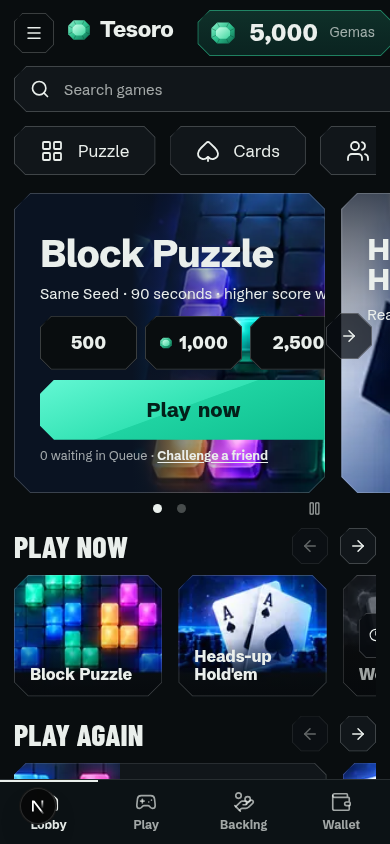
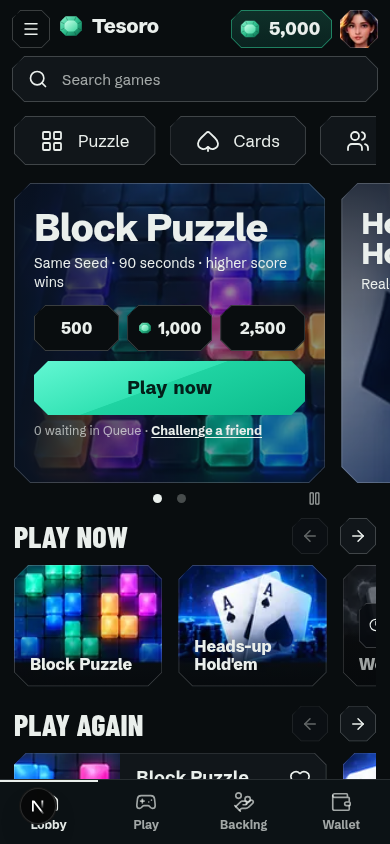
feat(app): responsive shell polish, dev demo fixtures, screenshots, DESIGN.md update

diff --git a/app/src/components/lobby/lobby.css b/app/src/components/lobby/lobby.css
@@ -6,7 +6,7 @@
   min-width: 0;
   display: flex; flex-direction: column; min-height: inherit;
 }
-.lobby > .rail:last-of-type { margin-bottom: 16px; }
+.lobby > .rail:last-of-type { margin-bottom: 12px; }
 .lobby > .lobby-foot { margin-top: auto; }
 @media (min-width: 640px) { .lobby { --pad-l: 20px; --pad-r: 20px; } }
 @media (min-width: 1024px) { .lobby { --pad-l: 24px; --pad-r: 18px; } }
@@ -40,12 +40,12 @@
 .slide-art img { object-fit: cover; object-position: left center; }
 .slide-art::after { content: ""; position: absolute; inset: 0; background: linear-gradient(90deg, #0a1322 0%, rgba(10, 19, 34, 0.55) 22%, transparent 55%); }
 .slide-body {
-  position: relative; z-index: 1; display: grid; align-content: start; width: min(100%, 412px); height: 100%;
+  position: relative; z-index: 1; display: grid; grid-template-columns: minmax(0, 1fr); align-content: start; width: min(100%, 412px); height: 100%;
   padding: 42px 26px 0;
 }
 .slide-title { font-size: clamp(38px, 3.65vw, 70px); font-weight: 800; letter-spacing: -0.025em; line-height: 1.02; word-spacing: 0.05em; white-space: nowrap; }
 .slide.long .slide-title { font-size: clamp(30px, 2.3vw, 44px); white-space: normal; max-width: 7em; line-height: 1; text-wrap: balance; }
-.slide-sub { margin-top: 9px; font-size: clamp(15px, 1.15vw, 22px); font-weight: 500; color: var(--fg); white-space: nowrap; }
+.slide-sub { margin-top: 9px; font-size: clamp(15px, 1.15vw, 22px); font-weight: 500; color: var(--fg); }
 .slide-entry { margin-top: 12px; }
 .slide-entry .entry span { min-height: 54px; font-size: 18px; --c: 11px; }
 .slide-body .btn.lg { margin-top: 10px; --c: 14px; }
@@ -217,3 +217,15 @@ a.tile:hover img { transform: scale(1.04); }
 
 /* amounts in big type read better with proportional figures */
 .player-entry b, .tile-label strong { font-variant-numeric: normal; }
+
+@container (max-width: 700px) {
+  .slide-body { padding: 26px 20px 0; }
+  .slide-title { white-space: normal; }
+  .slide-sub { font-size: 14px; margin-top: 6px; }
+  .slide-entry { margin-top: 12px; }
+  .slide-entry .entry span { min-height: 46px; font-size: 16px; }
+  .slide-body .btn.lg { min-height: 54px; font-size: 18px; }
+  .slide-art { width: 100%; opacity: 0.55; }
+  .hero-next { display: none; }
+}
+@container (min-width: 700px) { .slide-sub { white-space: nowrap; } }

diff --git a/app/src/components/shell/shell.css b/app/src/components/shell/shell.css
@@ -123,6 +123,18 @@ dialog.drawer::backdrop { background: rgba(0, 0, 0, 0.66); }
 .drawer-in { position: relative; padding: 18px 14px 24px; }
 .drawer-x { position: absolute; top: 14px; right: 12px; width: 38px; height: 38px; }
 
+@media (max-width: 639px) {
+  .topbar { gap: 8px 8px; padding-left: 12px; padding-right: 12px; }
+  .top-word .wordmark { font-size: 20px; }
+  .top-right { gap: 8px; }
+  .gpill { height: 38px; padding: 0 12px 0 8px; gap: 8px; --c: 10px; }
+  .gpill b { font-size: 18px; }
+  .gpill span { display: none; }
+  .gpill .gema-mark { width: 22px; height: 22px; }
+  .avatar { width: 38px; height: 38px; --c: 10px; }
+  .acct-chev { display: none; }
+  .topbar .menu-btn { width: 38px; height: 38px; }
+}
 @media (min-width: 640px) {
   .topbar { padding-left: 20px; padding-right: 20px; }
   .app-main { padding-left: 20px; padding-right: 20px; }
@@ -134,7 +146,7 @@ dialog.drawer::backdrop { background: rgba(0, 0, 0, 0.66); }
   .menu-btn, .top-word, .bottom-nav { display: none !important; }
   .topbar { grid-template-columns: minmax(0, 655px) 1fr auto; padding: 16px 18px 12px 24px; gap: 0 16px; }
   .search { display: flex; grid-column: 1; grid-row: 1; height: 48px; }
-  .top-right { grid-column: 3; gap: 18px; }
+  .top-right { grid-column: 3; gap: 18px; min-height: 52px; }
   .gpill { height: 52px; padding: 0 30px 0 16px; gap: 14px; }
   .gpill b { font-size: 30px; }
   .gpill span { font-size: 15px; }

diff --git a/app/src/components/lobby/PlayAgainRail.tsx b/app/src/components/lobby/PlayAgainRail.tsx
@@ -48,12 +48,16 @@ const PINS = "tesoro-pinned-matches";
 function usePins(): [Set<string>, (id: string) => void] {
   const [pins, setPins] = useState<Set<string>>(new Set());
   useEffect(() => {
-    try {
-      const raw = localStorage.getItem(PINS);
-      if (raw) setPins(new Set(JSON.parse(raw) as string[]));
-    } catch {
-      // no storage: pins last for this page view
-    }
+    // Deferred: storage is not readable during the server render.
+    const t = setTimeout(() => {
+      try {
+        const raw = localStorage.getItem(PINS);
+        if (raw) setPins(new Set(JSON.parse(raw) as string[]));
+      } catch {
+        // no storage: pins last for this page view
+      }
+    }, 0);
+    return () => clearTimeout(t);
   }, []);
   const toggle = (id: string) =>
     setPins((cur) => {

diff --git a/DESIGN.md b/DESIGN.md
@@ -1,54 +1,97 @@
 # Tesoro Design
 
-**Direction: Cut.** The game is the star; the platform is quiet, neutral chrome. Tesoro's signature is its *shape* — the emerald cut — and emerald appears only where Gemas move. Reference study: `docs/design/emerald-directions-study.html` (the "Cut" row).
+**Direction: Cut, lit.** The game is the star; the platform is quiet, neutral chrome. Tesoro's signature is its *shape* — the emerald cut — and emerald appears only where Gemas move. Reference 0 is the approved Lobby mockup `art-source/ui-redesign/lobby-desktop/take-1.png` (1920×1200); structure follows Skillz (`attach/10-ref-skillz-desktop.jpg`), hero drama follows `attach/11-ref-chumba-desktop.jpg`. Original study: `docs/design/emerald-directions-study.html` (the "Cut" row).
+
+Tesoro is a **desktop web app first** (sidebar, top bar, rails); phone and tablet are the same app collapsed, never a different product.
 
 ## Principles
 
 - **Chrome stays out of the way.** Near-black neutral shell; game art supplies the colour. No atmosphere, glow, texture or ornament on platform surfaces.
-- **The cut is the brand.** Chamfered (octagonal) corners on the phone frame, cards, rows, chips, entries and buttons — never rounded rectangles or pills. One corner size per component class.
-- **Emerald means Gemas move.** Emerald and faceted light (hard-stop gradients) are reserved for the balance, the chosen entry, redeemable amounts and money actions (Enter, Offer, Redeem). If it's emerald, Gemas move.
+- **The cut is the brand.** Chamfered (octagonal) corners on every card, chip, button, search box, balance pill, arrow button, avatar and tile — never rounded rectangles or pills. One corner size per component class, and the 1px outline follows the chamfer.
+- **Emerald means Gemas move.** Emerald and faceted light (hard-stop gradients) are reserved for the balance pill, the chosen entry, redeemable amounts and money actions (Play now, Enter, Offer, Redeem). If it's emerald, Gemas move. Navigation, chips, arrows and Docs/Help are neutral.
 - **Money is plain, big and honest.** Every balance separates *redeemable now* from *pending*, and pending shows its Sources. Simulated yield is labelled wherever amounts are shown.
 - **Green is not "success".** Because the accent is green, confirmations and wins always carry a second signal (icon or words), never colour alone.
+- **Games dominate.** Key art is the only saturated colour on a page. Coming-soon games are dimmed and not clickable.
 
 ## Tokens
 
 ```css
 :root {
-  /* shell */
-  --shell: #0C0E10; --raised: #15181B; --line: rgba(234,239,236,.10);
-  --fg: #EAEFEC; --fg-2: rgba(234,239,236,.62); --fg-3: rgba(234,239,236,.40);
+  /* shell: near-black neutrals, sampled from take-1 */
+  --shell: #090d0f;          /* page */
+  --side: #0c1215;           /* sidebar, bottom nav, drawer */
+  --raised: #11161a;         /* cards, chips, search */
+  --raised-2: #171e25;       /* hover, active nav, ticker, menus */
+  --line: rgba(234,239,236,.13); --line-2: rgba(234,239,236,.22);
+  --fg: #eaefec; --fg-2: rgba(234,239,236,.68); --fg-3: rgba(234,239,236,.40);
   /* emerald — money only */
-  --em-hi: #8FF5CF; --em: #2DBE8C; --em-deep: #0B6B4E; --em-ink: #03201A;
-  --facet: linear-gradient(135deg, var(--em-hi) 0%, var(--em) 45%, #1FA877 45.5%, var(--em-deep) 100%);
+  --em-hi: #6af8d6; --em: #24d8a8; --em-deep: #0a7d5c; --em-ink: #03201a;
+  --facet: linear-gradient(160deg, #63f7d3 0%, #33e3b4 46%, #1fd3a2 46.5%, #0cbc8c 100%);
   /* semantic (never the accent) */
-  --danger: #F2685A; --warn: #F2B94B;
+  --danger: #f2685a; --warn: #f2b94b;
   /* type */
   --f-body: "Schibsted Grotesk", "Hanken Grotesk", system-ui, sans-serif;
+  --f-display: "Barlow Condensed", "Oswald", "Arial Narrow", Impact, sans-serif;
   --f-mono: "IBM Plex Mono", ui-monospace, monospace;
   /* cut sizes */
-  --cut-frame: 22px; --cut-card: 10px; --cut-chip: 6px;
+  --cut-frame: 22px; --cut-card: 12px; --cut-btn: 10px; --cut-chip: 8px;
+  --side-w: 244px;           /* 268px from 1440px up */
 }
-.cut { clip-path: polygon(var(--c) 0, calc(100% - var(--c)) 0, 100% var(--c), 100% calc(100% - var(--c)), calc(100% - var(--c)) 100%, var(--c) 100%, 0 calc(100% - var(--c)), 0 var(--c)); }
 ```
+
+### The cut
+
+```css
+.cut { --c: var(--cut-card); --t: 1px; position: relative; clip-path: polygon(/* octagon by --c */); }
+.cut::after { /* evenodd ring: the outline follows the chamfer */ background: var(--edge, var(--line)); }
+```
+
+`clip-path` clips real borders, so cut shapes draw their outline as an `::after` evenodd ring coloured by `--edge` (never `border`). Neutral cards use `--line`, controls `--line-2`, the balance pill a translucent emerald, money surfaces `transparent`. Inputs keep a real border (they cannot have pseudo-elements). Classes: `cut-frame` (heroes, sheets), `cut-card` (cards, nav items, chips-as-buttons, tiles), `cut-btn` (buttons, avatars), `cut-chip` (small chips, entry buttons, ticker). Focus rings sit inside the shape (`outline-offset: -4px`).
 
 ## Type
 
-Schibsted Grotesk for everything, headings and figures included (weights 400/700/800/900, tight tracking on large numbers, `tabular-nums` on every amount). IBM Plex Mono only for verifiable data: chain chips, hashes, Seeds, timers, the simulated-yield label.
+- **Display**: Barlow Condensed 800, all caps, for section headers (PLAY NOW, PLAY AGAIN, BACK A PLAYER) and page titles: `.h-section` (about 48px at 1920, fluid from 30px), `.page-title`. Nothing else uses it.
+- **UI text and figures**: Schibsted Grotesk (weights 400/700/800/900), including hero titles, buttons and every amount. `tabular-nums` on amounts in lists and tables (`.tnum`); big display figures (balance pill, sidebar panels, entry amounts) use proportional figures.
+- **Verifiable data**: IBM Plex Mono only: chain chips, hashes, Seeds, timers, footer links, the simulated-yield label.
+
+Heavy Schibsted (800–900) gets `word-spacing: .14em` (Barlow does not need it).
 
 ## The Gema mark
 
-A small emerald-cut stone (octagon with table facet and facet lines, emerald gradient) — never a flat ◆ glyph, never gold. It precedes Gema amounts of consequence; a brief glint animation is allowed on the balance only, and is off under `prefers-reduced-motion`.
+A small emerald-cut stone (octagon with table facet and facet lines, emerald gradient) — never a flat ◆ glyph, never gold. It precedes Gema amounts of consequence and is the sidebar wordmark's gem; a brief glint animation is allowed on the balance only, and is off under `prefers-reduced-motion`.
 
-## Layout
+## Shell and layout
 
-Mobile-first, three-destination bottom navigation (Lobby · Play · Wallet), game-first lobby in the Skillz shape: featured game with its entry ladder, game rows, Backing Requests. Desktop widens the same composition; it does not add chrome.
+- **Desktop (≥1024px):** fixed left sidebar (`--side-w`), then a sticky top bar over the content.
+  - Sidebar, top to bottom: wordmark with gem, "Fair play · on-chain" chip, Lobby / Play / Backing / Wallet (active item raised and outlined), divider, Docs / Help (not built yet: shown dimmed, not clickable), the **Your Positions** card. The card shows each Position (chain chip, principal, a 10-segment bar of Debt repaid by yield, Debt), the Unlock Estimate, the emerald **Redeemable now** panel and the **Pending** panel; real data when signed in, a sign-in prompt when not.
+  - Top bar: search (filters games on the Lobby; typing elsewhere goes to the Lobby), the Gema balance pill (emerald, links to Wallet) and the Account avatar menu (Account, Wallet, Sign out). Signed out: a Sign in button instead.
+  - The Lobby content is full width up to the viewport edge; every other page is a centred column (max 1180px).
+- **Below 1024px:** the sidebar becomes a left drawer (menu button in the top bar), a four-item bottom navigation appears, the search box drops to its own row on the Lobby, and rails show a peeking next tile (horizontal scroll).
+- **Lobby order:** category chips (Puzzle, Cards, Head-to-head, Async filter Play Now; Backing scrolls to Back a Player) → hero carousel (active slide plus the next slide peeking, dots, next arrow, auto-advance that pauses on hover, focus and a Pause button, and stops under `prefers-reduced-motion`) → Continue (only with Matches in progress) → Play Now → Play Again (only with settled Matches) → live ticker → Back a Player → footer.
+- **Rails:** a bold condensed header, `VIEW ALL →`, and ← → cut arrow buttons that scroll the track. Tiles per screen follow the container width, not the viewport (6 / 5 / 4 / 3 / peeking).
 
-## Implementation decisions (from the first build, 2026-09-30)
+## Components
 
-- `--fg-3` (40%) fails AA for text: use it for decoration only; all text uses `--fg` or `--fg-2`.
-- Navigation and non-money CTAs (Play, See all) are neutral; only Gema actions (Enter, Offer, Redeem, Take an Advance, sliders that set Gema amounts) are emerald.
-- Focus rings sit inside cut shapes (`outline-offset: -4px`), since `clip-path` clips outer outlines; `--em-ink` on money buttons.
-- Heavy Schibsted (800–900) gets `word-spacing: .14em`.
-- Match results always pair an icon with words: ✓ Won · ✕ Lost · − Draw / Refunded.
-- Simulated Unlock Estimates show an absolute time (the yield clock runs 1 month = 10 min).
-- Components live in `app/src/components/ui`; `/design` renders every component and state.
+Live in `app/src/components/ui` (primitives, money, inputs, icons, `ui.css`), the shell in `components/shell`, Lobby pieces in `components/lobby`. `/design` renders every ui component and state.
+
+- **Button** — `money` (facet gradient) only where Gemas move; `neutral` otherwise; sizes `sm`, `md`, `lg` (Play now).
+- **Icon button** (`.icon-btn`) — square cut button for arrows, menu, close, copy.
+- **Entry picker** — 500 / 1,000 / 2,500; the chosen entry is facet-filled with the Gema mark.
+- **Tile** — Play Now key art with a bottom label; coming-soon variant dimmed with a "Coming soon" chip.
+- **Player card** — avatar, name, Game, "N Matches · X% won", Entry, emerald **Offer**.
+- **Ticker**, **Balance pill**, **Positions card**, **Category chip**, **Search**, **Account menu** — see the shell and Lobby.
+- Icons: neutral `lucide-react` line icons (1.7–1.8 stroke) in the shell; the original square-cap glyphs in `ui/icons.tsx` remain for status marks (check, cross, clock).
+
+## Art
+
+All game art, hero art and avatars come from one map, `app/src/lib/art.ts`. Until the final assets land (`art-source/ui-redesign/assets/`), they are **placeholder crops of take-1** produced by `app/scripts/crop-placeholder-art.mjs` into `app/public/art/placeholder/`; swapping to final art is one line per image. Hero art keeps its left 40% dark for the title. Art carries no UI text (titles, chips and prices are real text).
+
+## Implementation decisions
+
+- `--fg-3` (40%) fails AA for text: decoration only; all text uses `--fg` or `--fg-2`.
+- Only Gema actions (Play now, Enter, Offer, Redeem, Take an Advance, sliders that set Gema amounts) and the balance are emerald. The Debt-repaid segments in the Positions card are emerald because they are Debt paid by yield.
+- Money buttons use `--em-ink` for text and focus rings.
+- Match results always pair an icon with words: ✓ Won · ✕ Lost · − Draw / Refunded (Play Again tiles too).
+- Simulated Unlock Estimates show an absolute time (the yield clock runs 1 month = 10 min); "–" until one exists.
+- Names are not on chain: Players show as short keys with a stable placeholder avatar (`avatarFor`).
+- Dev only: `?dev=out` previews the signed-out UI and `?dev=demo` a populated fake Account (with `NEXT_PUBLIC_DEV_WALLET=1`); used for screenshots in `app/docs/screens/redesign-*.png`.
